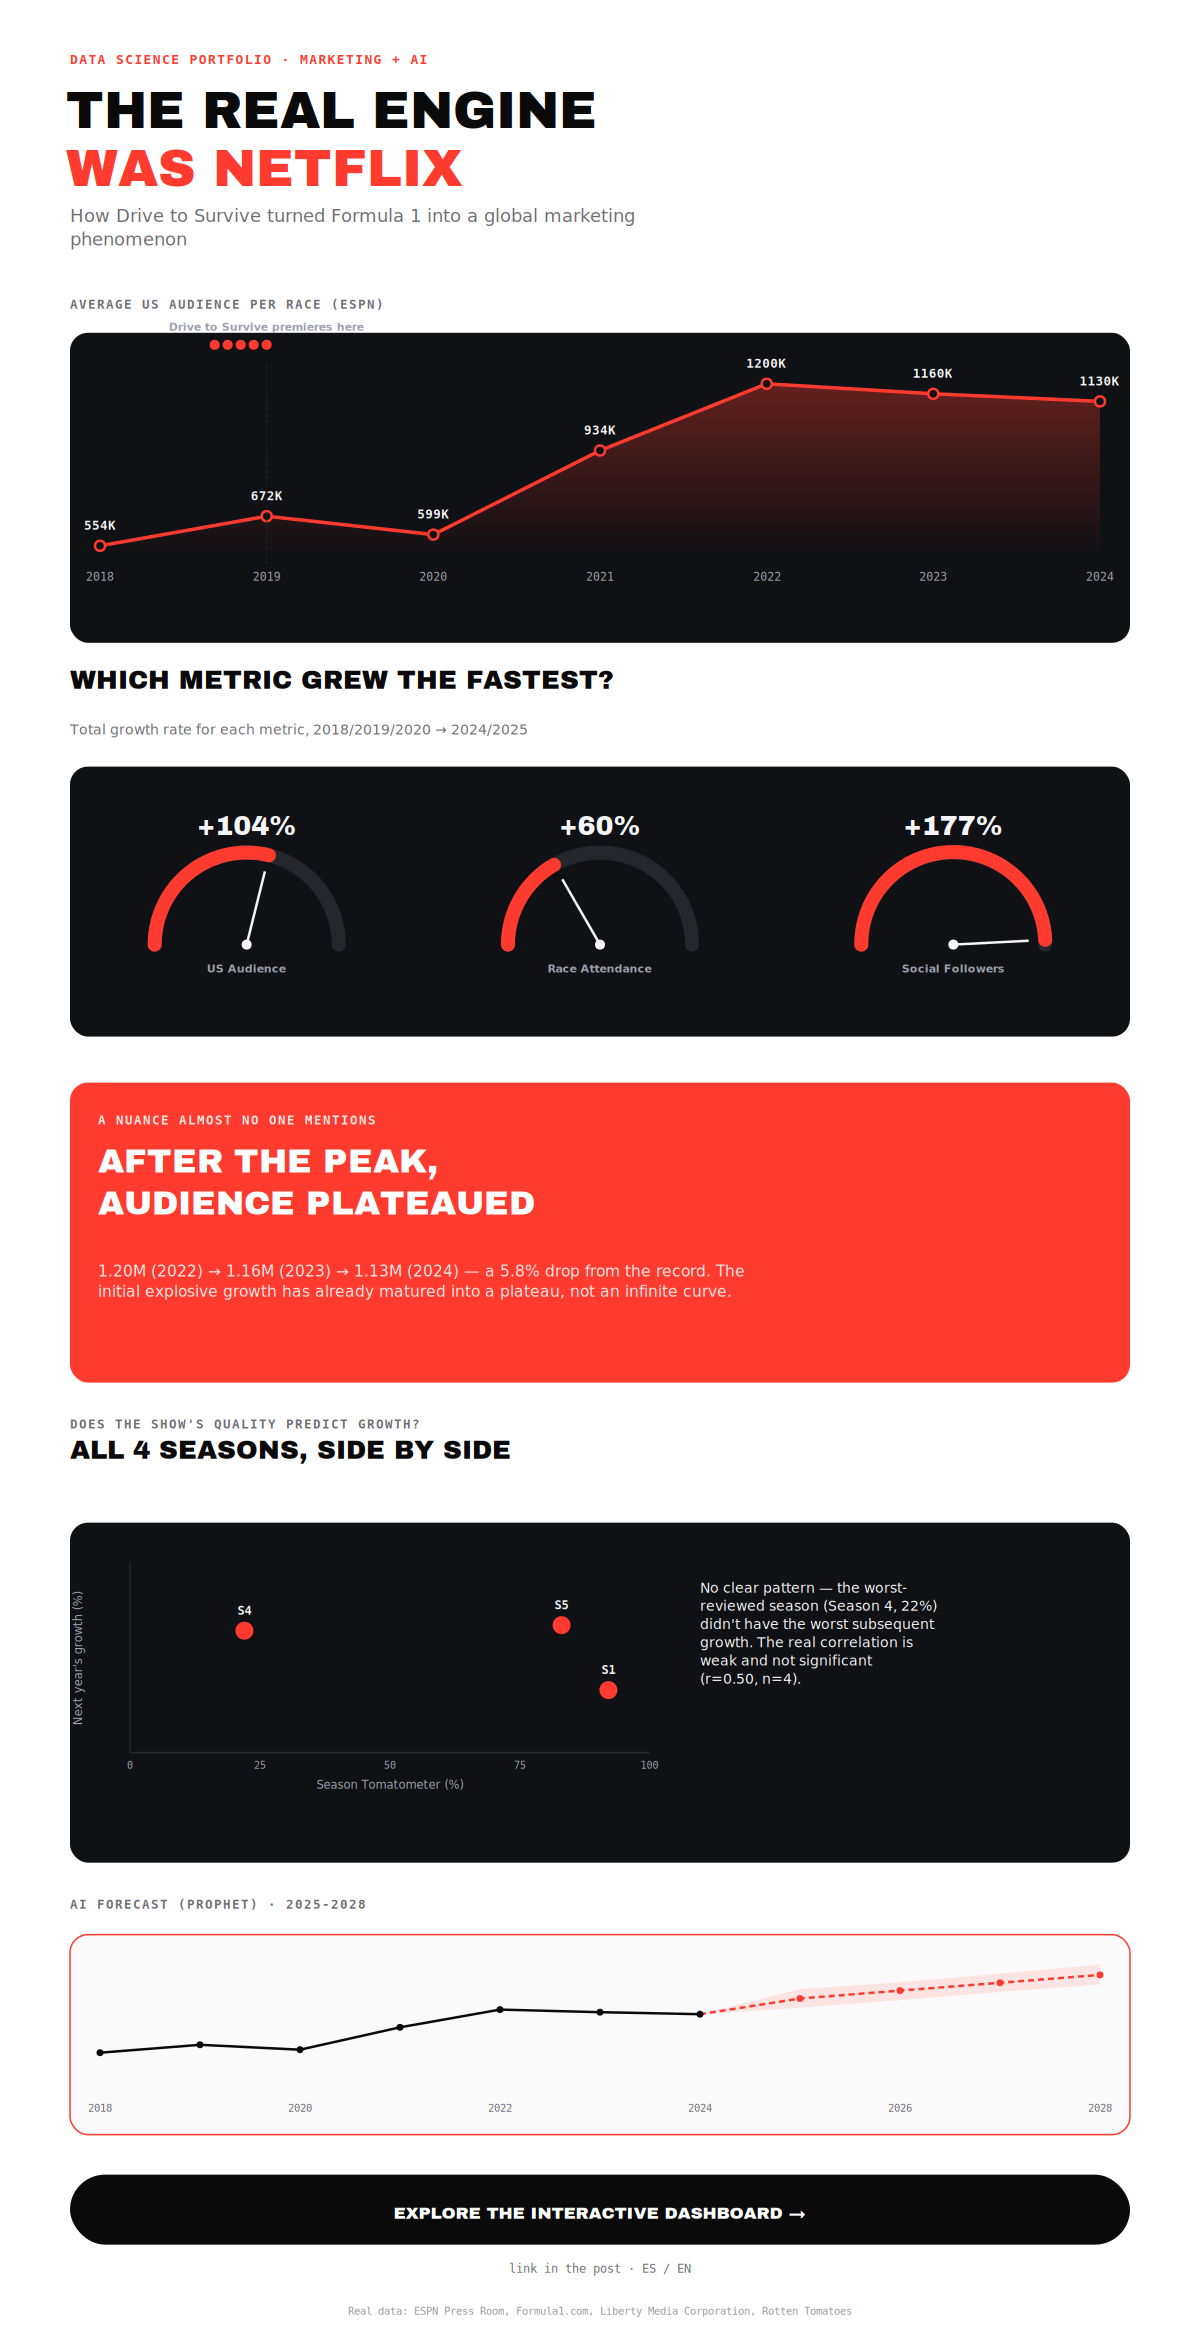
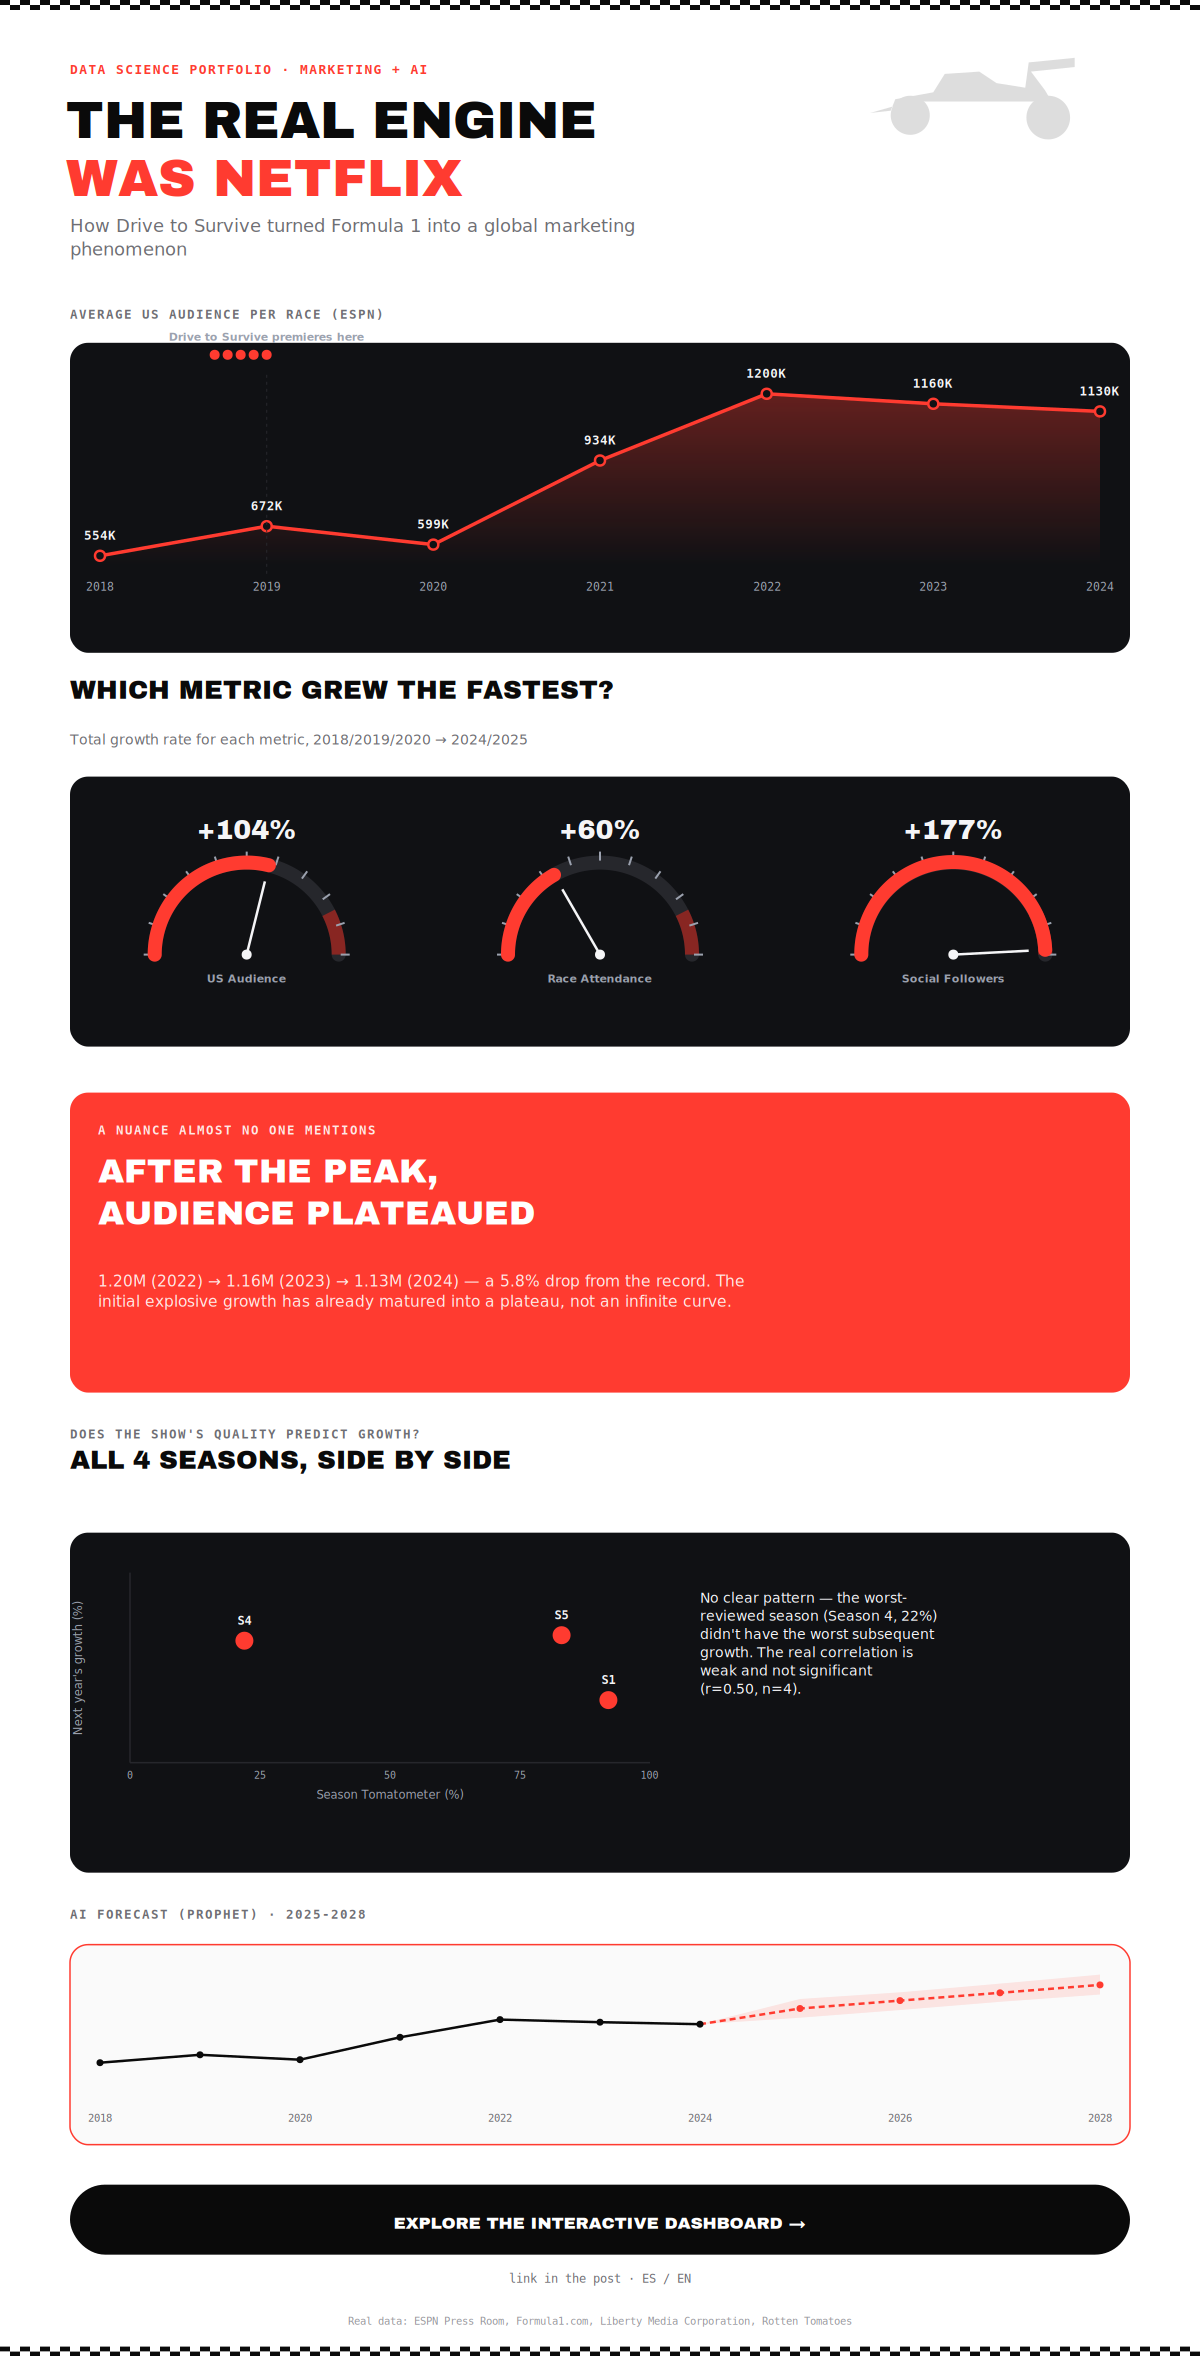
Agregar elementos explícitamente reconocibles de F1 (genéricos, sin escudería puntual)
- Cinta de bandera a cuadros como bookend (header y footer) -- simbolo
  universal del automovilismo.
- Silueta de monoplaza de ruedas abiertas en el header, ligada al
  copy 'El motor real fue Netflix'.
- Medidores convertidos en tacometros reales: marcas de graduacion +
  zona de corte (redline) en rojo oscuro al final del arco.
- Iteracion: la primera silueta del auto no se leia con claridad (forma
  confusa) -- se redibujo con geometria mas simple y se subio la
  opacidad de 0.06 a 0.14 para que fuera reconocible.

diff --git a/scripts/07_linkedin_infographic.py b/scripts/07_linkedin_infographic.py
@@ -58,23 +58,79 @@ def start_lights(x, y, r=5, gap=13, lit=5):
         svg += f'<circle cx="{x+i*gap}" cy="{y}" r="{r}" fill="{color}"/>'
     return svg
 
+def race_car_silhouette(x, y, scale, color, opacity=1.0):
+    """Silueta generica de un monoplaza de ruedas abiertas (perfil lateral,
+    mirando a la derecha) -- forma generica del tipo de vehiculo, sin
+    reproducir el diseño, patrocinios o librea de ninguna escuderia.
+    Ruedas primero (quedan parcialmente detras de la carroceria, como en
+    un perfil real), carroceria despues."""
+    s = scale
+    svg = f'<g opacity="{opacity}">'
+    svg += f'<circle cx="{x+35*s}" cy="{y+62*s}" r="{17*s}" fill="{color}"/>'
+    svg += f'<circle cx="{x+155*s}" cy="{y+64*s}" r="{19*s}" fill="{color}"/>'
+    body = (f"M {x} {y+60*s} "
+            f"L {x+18*s} {y+58*s} "
+            f"L {x+22*s} {y+48*s} "
+            f"L {x+55*s} {y+42*s} "
+            f"L {x+65*s} {y+26*s} "
+            f"L {x+95*s} {y+24*s} "
+            f"L {x+110*s} {y+34*s} "
+            f"L {x+135*s} {y+38*s} "
+            f"L {x+138*s} {y+16*s} "
+            f"L {x+178*s} {y+12*s} "
+            f"L {x+178*s} {y+20*s} "
+            f"L {x+140*s} {y+24*s} "
+            f"L {x+152*s} {y+40*s} "
+            f"L {x+158*s} {y+50*s} "
+            f"L {x+35*s} {y+50*s} Z")
+    svg += f'<path d="{body}" fill="{color}"/>'
+    svg += '</g>'
+    return svg
+
+def checkered_ribbon(x, y, w, h, cols=None):
+    """Cinta de bandera a cuadros -- simbolo generico y universal del
+    automovilismo, no asociado a ninguna marca puntual."""
+    if cols is None:
+        cols = max(2, int(w // h))
+    cw = w / cols
+    svg = f'<g>'
+    for i in range(cols):
+        for j in range(2):
+            color = "#0A0A0A" if (i+j) % 2 == 0 else "#FFFFFF"
+            svg += f'<rect x="{x+i*cw:.1f}" y="{y+j*h/2:.1f}" width="{cw:.1f}" height="{h/2:.1f}" fill="{color}"/>'
+    svg += '</g>'
+    return svg
+
 def speed_gauge(cx, cy, r, value_pct, max_val, label_lines, big_label):
     start_theta = 180
     sweep = min(180, (value_pct/max_val)*180)
     end_theta = start_theta - sweep
-    def pt(theta):
+    def pt(theta, radius=None):
+        radius = radius if radius is not None else r
         rad = math.radians(theta)
-        return (cx + r*math.cos(rad), cy - r*math.sin(rad))
+        return (cx + radius*math.cos(rad), cy - radius*math.sin(rad))
     x0,y0 = pt(start_theta)
     x1,y1 = pt(end_theta)
+    # pista de fondo
     svg = f'<path d="M {x0:.1f} {y0:.1f} A {r} {r} 0 0 1 {cx+r:.1f} {cy:.1f}" fill="none" stroke="{P["panel_track"]}" stroke-width="14" stroke-linecap="round"/>'
+    # zona de corte (redline) -- ultimo 15% del arco, como en un tacometro real
+    redline_theta = start_theta - 180*0.85
+    xr,yr = pt(redline_theta)
+    xr2,yr2 = pt(0)
+    svg += f'<path d="M {xr:.1f} {yr:.1f} A {r} {r} 0 0 1 {xr2:.1f} {yr2:.1f}" fill="none" stroke="{P["red_deep"]}" stroke-width="14" stroke-linecap="butt" opacity="0.55"/>'
+    # marcas de graduacion tipo tacometro (11 marcas, como 0-10 x1000 RPM)
+    for k in range(11):
+        theta_k = start_theta - k*18
+        tick_out = pt(theta_k, r+11)
+        tick_in = pt(theta_k, r+2)
+        svg += f'<line x1="{tick_in[0]:.1f}" y1="{tick_in[1]:.1f}" x2="{tick_out[0]:.1f}" y2="{tick_out[1]:.1f}" stroke="{P["panel_text2"]}" stroke-width="2"/>'
     large_arc = 1 if sweep > 180 else 0
     svg += f'<path d="M {x0:.1f} {y0:.1f} A {r} {r} 0 {large_arc} 1 {x1:.1f} {y1:.1f}" fill="none" stroke="{P["red"]}" stroke-width="14" stroke-linecap="round"/>'
     needle_len = r*0.82
     nx,ny = cx+needle_len*math.cos(math.radians(end_theta)), cy-needle_len*math.sin(math.radians(end_theta))
     svg += f'<line x1="{cx}" y1="{cy}" x2="{nx:.1f}" y2="{ny:.1f}" stroke="{P["panel_text"]}" stroke-width="2.5"/>'
     svg += f'<circle cx="{cx}" cy="{cy}" r="5" fill="{P["panel_text"]}"/>'
-    svg += f'<text x="{cx}" y="{cy-r-18:.0f}" font-family="{DISPLAY}" font-size="27" fill="{P["panel_text"]}" text-anchor="middle">{big_label}</text>'
+    svg += f'<text x="{cx}" y="{cy-r-24:.0f}" font-family="{DISPLAY}" font-size="27" fill="{P["panel_text"]}" text-anchor="middle">{big_label}</text>'
     ll, _ = wrap_tspans(label_lines, cx, 22, 11, anchor="middle")
     svg += f'<text x="{cx}" y="{cy+28}" font-family="{BODY}" font-size="11" font-weight="bold" fill="{P["panel_text2"]}" text-anchor="middle">{ll}</text>'
     return svg
@@ -128,13 +184,17 @@ def build_svg(lang):
     W = 1200
     svg_parts = [f'<rect width="{W}" height="__H__" fill="{P["bg"]}"/>']
 
+    # ---------- CINTA A CUADROS (acento superior, simbolo universal de carreras) ----------
+    svg_parts.append(checkered_ribbon(0, 0, W, 10))
+
     # ---------- HEADER ----------
-    y = 64
+    y = 74
     svg_parts.append(f'<text x="70" y="{y}" font-family="{MONO}" font-size="13" font-weight="bold" letter-spacing="1.2" fill="{P["red"]}">{esc(eyebrow)}</text>')
     y += 64
     svg_parts.append(f'<text x="66" y="{y}" font-family="{DISPLAY}" font-size="52" fill="{P["text"]}">{esc(title1)}</text>')
     y += 58
     svg_parts.append(f'<text x="66" y="{y}" font-family="{DISPLAY}" font-size="52" fill="{P["red"]}">{esc(title2)}</text>')
+    svg_parts.append(race_car_silhouette(W-330, y-152, 1.15, P["text"], opacity=0.14))
     y += 36
     sub_lines, nsub = wrap_tspans(subtitle, 70, 68, 18)
     svg_parts.append(f'<text x="70" y="{y}" font-family="{BODY}" font-size="18" fill="{P["text2"]}">{sub_lines}</text>')
@@ -272,7 +332,9 @@ def build_svg(lang):
     svg_parts.append(f'<text x="{W/2}" y="{y}" font-family="{MONO}" font-size="12" fill="{P["text2"]}" text-anchor="middle">{esc(cta2)}</text>')
     y += 24
     svg_parts.append(f'<text x="{W/2}" y="{y+18}" font-family="{MONO}" font-size="10.5" fill="#98989D" text-anchor="middle">{esc(footer)}</text>')
-    y += 50
+    y += 40
+    svg_parts.append(checkered_ribbon(0, y, W, 10))
+    y += 10
 
     H = int(y)
     svg = f'<svg viewBox="0 0 {W} {H}" xmlns="http://www.w3.org/2000/svg">' + "".join(svg_parts).replace("__H__", str(H)) + '</svg>'
